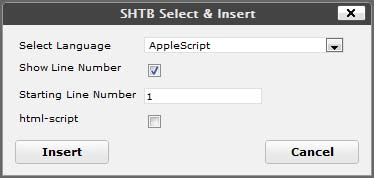
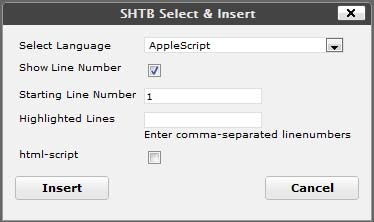
git-svn-id: https://plugins.svn.wordpress.org/syntaxhighlighter-tinymce-button/trunk@387108 b8457f37-d9ea-0310-8a92-e5e31aec5664

diff --git a/sh-tinymce-button-ins/tinymce.js b/sh-tinymce-button-ins/tinymce.js
@@ -26,6 +26,7 @@ function insertSHTBADVINSERTcode() {
 	var langname = langname_ddb.value;
 	var linenumbers = document.getElementById('shtb_adv_insert_linenumbers').checked;
 	var starting_linenumber = document.getElementById('shtb_adv_insert_starting_linenumber').value;
+	var highlight_lines = document.getElementById('shtb_adv_insert_highlighted_lines').value;
 	var html_script = document.getElementById('shtb_adv_insert_html_script').checked;
 	var inst = tinyMCE.getInstanceById('content');
 	var html = inst.selection.getContent();
@@ -42,6 +43,11 @@ function insertSHTBADVINSERTcode() {
 	if (starting_linenumber)
 		classAttribs = classAttribs + '; first-line: ' + starting_linenumber;
 	else
+		classAttribs = classAttribs + '; first-line: 1';
+
+	if (highlight_lines)
+		classAttribs = classAttribs + '; highlight: [' + highlight_lines + ']';
+	else
 		classAttribs = classAttribs;
 
 	if (html_script)
@@ -52,11 +58,15 @@ function insertSHTBADVINSERTcode() {
 	if(starting_linenumber.match(/[^0-9]+/)){
 			alert("Please input number to the 'Starting Line Number' column");
 			return;
+	} else if(highlight_lines != "" && highlight_lines.match(/[^,0-9]/)){
+			alert("Please input a linenumber or comma-separated linenumbers to the 'Highlighted Lines' column");
+			return;
 	} else if(e = ed.dom.getParent(ed.selection.getNode(), 'pre')){
 		ed.dom.setAttribs(e, {class : 'brush: '+classAttribs});
 	} else {
 	window.tinyMCE.execInstanceCommand('content', 'mceInsertContent', false, tagtext+classAttribs+'">'+html+'</pre>');
 	tinyMCEPopup.editor.execCommand('mceRepaint');
+//	tinyMCEPopup.editor.execCommand('mceInsertContent', false, tagtext+classAttribs+'">'+html+'</pre>');
 	}
 	tinyMCEPopup.close();
 	return;

diff --git a/sh-tinymce-button-box/tinymce.js b/sh-tinymce-button-box/tinymce.js
@@ -25,6 +25,7 @@ function insertSHTBADVCODEBOXcode() {
 	var langname = langname_ddb.value;
 	var linenumbers = document.getElementById('shtb_adv_codebox_linenumbers').checked;
 	var starting_linenumber = document.getElementById('shtb_adv_codebox_starting_linenumber').value;
+	var highlight_lines = document.getElementById('shtb_adv_codebox_highlighted_lines').value;
 	var html_script = document.getElementById('shtb_adv_codebox_html_script').checked;
 	var code = document.getElementById('shtb_adv_codebox_code').value.replace(/</g,'&lt;').replace(/\n/g,'<br>');
 
@@ -41,6 +42,11 @@ function insertSHTBADVCODEBOXcode() {
 	else
 		classAttribs = classAttribs;
 
+	if (highlight_lines)
+		classAttribs = classAttribs + '; highlight: [' + highlight_lines + ']';
+	else
+		classAttribs = classAttribs;
+
 	if (html_script)
 		classAttribs = classAttribs + '; html-script: true';
 	else
@@ -49,11 +55,13 @@ function insertSHTBADVCODEBOXcode() {
 	if(starting_linenumber.match(/[^0-9]+/)){
 			alert("Please input number to the 'Starting Line Number' column");
 			return;
+	} else if(highlight_lines != "" && highlight_lines.match(/[^,0-9]/)){
+			alert("Please input a linenumber or comma-separated linenumbers to the 'Highlighted Lines' column");
+			return;
 	} else if (code == '') {
 		alert("Your code is empty");
 	} else {
-	window.tinyMCE.execInstanceCommand('content', 'mceInsertContent', false, tagtext+classAttribs+'">'+code+'</pre>');
-	tinyMCEPopup.editor.execCommand('mceRepaint');
+	tinyMCEPopup.editor.execCommand('mceInsertContent', false, tagtext+classAttribs+'">'+code+'</pre>');
 	}
 	tinyMCEPopup.close();
 	return;

diff --git a/sh-tinymce-button-ins/re_write.js b/sh-tinymce-button-ins/re_write.js
@@ -17,6 +17,9 @@ var SHTBADVINSERTDialog = {
 			if(ed.dom.getAttrib(e, 'class').match(/first-line:/)){
 				f.shtb_adv_insert_starting_linenumber.value = str[2].replace(" first-line: ", "");
 			}
+			if(ed.dom.getAttrib(e, 'class').match(/highlight:/)){
+				f.shtb_adv_insert_highlighted_lines.value = str[3].replace(" highlight: [", "").replace("]", "");
+			}
 			if(ed.dom.getAttrib(e, 'class').match(/html-script: true/)){
 				f.shtb_adv_insert_html_script.checked = true;
 			}

diff --git a/sh-tinymce-button-box/editor_plugin.js b/sh-tinymce-button-box/editor_plugin.js
@@ -13,7 +13,7 @@
 				ed.windowManager.open({
 					file : url + '/window.php',
 					width : 360,
-					height : 390,
+					height : 430,
 					inline : 1
 				}, {
 					plugin_url : url // Plugin absolute URL
@@ -41,7 +41,7 @@
 					author 	  : 'redcocker',
 					authorurl : 'http://www.near-mint.com/blog',
 					infourl   : 'http://www.near-mint.com/blog',
-					version   : "0.3"
+					version   : "0.4"
 			};
 		}
 	});

diff --git a/sh-tinymce-button-ins/editor_plugin.js b/sh-tinymce-button-ins/editor_plugin.js
@@ -13,7 +13,7 @@
 				ed.windowManager.open({
 					file : url + '/window.php',
 					width : 360,
-					height : 145,
+					height : 190,
 					inline : 1
 				}, {
 					plugin_url : url // Plugin absolute URL
@@ -41,7 +41,7 @@
 					author 	  : 'redcocker',
 					authorurl : 'http://www.near-mint.com/blog',
 					infourl   : 'http://www.near-mint.com/blog',
-					version   : "0.3"
+					version   : "0.4"
 			};
 		}
 	});

diff --git a/sh-tinymce-button.php b/sh-tinymce-button.php
@@ -3,14 +3,14 @@
 Plugin Name: SyntaxHighlighter TinyMCE Button
 Plugin URI: http://www.near-mint.com/blog/software
 Description: 'SyntaxHighlighter TinyMCE Button' provides additional buttons for Visual Editor and these buttons will help to type or edit <code>&lt;pre&gt;</code> tag for Alex Gorbatchev's <a href='http://alexgorbatchev.com/SyntaxHighlighter/'>SyntaxHighlighter</a>. This plugin is based on '<a href='http://wordpress.org/extend/plugins/codecolorer-tinymce-button/'>CodeColorer TinyMCE Button</a>'.
-Version: 0.3
+Version: 0.4
 Author: Redcocker
 Author URI: http://www.near-mint.com/blog/
 Text Domain: shtb_adv_lang
 Domain Path: /locale/
 */
 /*
-Date of release: Ver. 0.3 2011/5/16
+Date of release: Ver. 0.4 2011/5/21
 License: GPL v2
 */
 load_plugin_textdomain('shtb_adv_lang', false, 'syntaxhighlighter-tinymce-button/locale');
@@ -26,8 +26,10 @@ function shtb_adv_add_admin_footer(){ //show plugin info in the footer
 function shtb_adv_register_menu_item() {
 	register_setting( 'shtb_adv-settings-group', 'shtb_adv_insert'); 
 	register_setting( 'shtb_adv-settings-group', 'shtb_adv_codebox'); 
+	register_setting( 'shtb_adv-settings-group', 'shtb_adv_using_syntaxhighlighter'); 
 	add_option('shtb_adv_insert', 1);
 	add_option('shtb_adv_codebox', 1);
+	add_option('shtb_adv_using_syntaxhighlighter', 'other');
 	add_options_page('SyntaxHighlighter TinyMCE Button Options', 'SH TinyMCE Button', 10, 'syntaxhighlighter-tinymce-button-options', 'shtb_adv_options_panel');
 }
 
@@ -71,6 +73,22 @@ function shtb_adv_options_panel(){
 	<form method="post" action="options.php">
 		<table style="margin-top:20px">
 		<?php settings_fields('shtb_adv-settings-group'); ?>
+			<tr valign="top">
+				<th scope="row" align="right"><?php _e('Using with', 'shtb_adv_lang') ?></th> 
+				<td style="padding-left:10px">
+					<?php if (get_option('shtb_adv_using_syntaxhighlighter') == "wp_syntaxhighlighter") {
+						$shtb_adv_wp_syntaxhighlighter_check = 'checked=\"checked\"';
+					} elseif (get_option('shtb_adv_using_syntaxhighlighter') == "syntax_highlighter_compress") {
+						$shtb_adv_syntax_highlighter_compress_check = 'checked=\"checked\"';
+					} elseif (get_option('shtb_adv_using_syntaxhighlighter') == "other") {
+						$shtb_adv_other_syntaxhighlighter_check = 'checked=\"checked\"';
+					} else {
+						update_option('shtb_adv_using_syntaxhighlighter', 'other');
+					} ?>
+					<input type="radio" name="shtb_adv_using_syntaxhighlighter" value="wp_syntaxhighlighter" <?php echo $shtb_adv_wp_syntaxhighlighter_check; ?>/><?php _e('<a href="http://wordpress.org/extend/plugins/wp-syntaxhighlighter/" style="text-decoration: none">WP SyntaxHighlighter</a>', 'shtb_adv_lang') ?> <input type="radio" name="shtb_adv_using_syntaxhighlighter" value="syntax_highlighter_compress" <?php echo $shtb_adv_syntax_highlighter_compress_check; ?>/><?php _e('<a href="http://wordpress.org/extend/plugins/syntax-highlighter-compress/" style="text-decoration: none">Syntax Highlighter Compress</a>', 'shtb_adv_lang') ?> <input type="radio" name="shtb_adv_using_syntaxhighlighter" value="other" <?php echo $shtb_adv_other_syntaxhighlighter_check; ?>/><?php _e('Other', 'shtb_adv_lang') ?>
+					<p><small><?php _e("Select your using plugin based on Alex Gorbatchev's <a href='http://alexgorbatchev.com/SyntaxHighlighter/' style='text-decoration: none'>SyntaxHighlighter</a>.<br />If your plugin is not in the options, Select 'Other'.<br />It is the same if you use <a href='http://wordpress.org/extend/plugins/auto-syntaxhighlighter/' style='text-decoration: none'>Auto SyntaxHighlighter</a>, <a href='http://wordpress.org/extend/plugins/syntax-highlighter-and-code-prettifier/' style='text-decoration: none'>Syntax Highlighter and Code Colorizer for WordPress</a> or <a href='http://wordpress.org/extend/plugins/syntax-highlighter-mt/' style='text-decoration: none'>Syntax Highlighter MT</a>.<br />If you don't know about your using plugin, Select 'Other'. When you select 'Other', this plugin will act innocuously.", "shtb_adv_lang") ?></small></p>
+				</td>
+			</tr>
 			<tr valign="top">
 				<th scope="row" align="right"><?php _e('Buttons', 'shtb_adv_lang') ?></th>
 				<td style="padding-left:10px">

diff --git a/sh-tinymce-button-ins/window.php b/sh-tinymce-button-ins/window.php
@@ -15,8 +15,8 @@ global $wpdb;
 <!-- 	<meta http-equiv="Content-Type" content="<?php// bloginfo('html_type'); ?>; charset=<?php //echo get_option('blog_charset'); ?>" /> -->
 	<script language="javascript" type="text/javascript" src="<?php echo get_option('siteurl') ?>/wp-includes/js/tinymce/tiny_mce_popup.js"></script>
 	<script language="javascript" type="text/javascript" src="<?php echo get_option('siteurl') ?>/wp-includes/js/tinymce/utils/form_utils.js"></script>
-	<script language="javascript" type="text/javascript" src="<?php echo get_option('siteurl') ?>/wp-content/plugins/syntaxhighlighter-tinymce-button/sh-tinymce-button-ins/tinymce.js?ver=0.3"></script>
-	<script language="javascript" type="text/javascript" src="<?php echo get_option('siteurl') ?>/wp-content/plugins/syntaxhighlighter-tinymce-button/sh-tinymce-button-ins/re_write.js?ver=0.3"></script>
+	<script language="javascript" type="text/javascript" src="<?php echo get_option('siteurl') ?>/wp-content/plugins/syntaxhighlighter-tinymce-button/sh-tinymce-button-ins/tinymce.js?ver=0.4"></script>
+	<script language="javascript" type="text/javascript" src="<?php echo get_option('siteurl') ?>/wp-content/plugins/syntaxhighlighter-tinymce-button/sh-tinymce-button-ins/re_write.js?ver=0.4"></script>
 	<base target="_self" />
 </head>
 		<body id="link" onload="tinyMCEPopup.executeOnLoad('init();');document.body.style.display='';" style="display: none">
@@ -65,11 +65,16 @@ global $wpdb;
           </tr>
           <tr>
 			<td nowrap="nowrap" valign="top"><label for="shtb_adv_insert_linenumbers"><?php _e("Show Line Number", 'shtb_adv_lang'); ?></label></td>
-            <td><label><input name="shtb_adv_insert_linenumbers" id='shtb_adv_insert_linenumbers' type="checkbox" checked="checked" /></label></td>
+            <td><?php $shc_opt = get_option('shc_opt'); if ((get_option('shtb_adv_using_syntaxhighlighter') == 'wp_syntaxhighlighter' && get_option('wp_sh_gutter') == 0) || (get_option('shtb_adv_using_syntaxhighlighter') == 'syntax_highlighter_compress' && $shc_opt[shc_gutter] == 0)) {$shtb_adv_insert_linenumbers_check = '';} else {$shtb_adv_insert_linenumbers_check = 'checked="checked" ';}?><label><input name="shtb_adv_insert_linenumbers" id='shtb_adv_insert_linenumbers' type="checkbox" <?php echo $shtb_adv_insert_linenumbers_check; ?>/></label></td>
           </tr>
           <tr>
 			<td nowrap="nowrap" valign="top"><label for="shtb_adv_insert_starting_linenumber"><?php _e("Starting Line Number", 'shtb_adv_lang'); ?></label></td>
-            <td><label><input name="shtb_adv_insert_starting_linenumber" id='shtb_adv_insert_starting_linenumber' type="text" value="1" /></label></td>
+            <td><?php if (get_option('shtb_adv_using_syntaxhighlighter') == 'wp_syntaxhighlighter') {$shtb_adv_insert_starting_linenumber_value = get_option('wp_sh_first_line');} else {$shtb_adv_insert_starting_linenumber_value = '1';}?><label><input name="shtb_adv_insert_starting_linenumber" id='shtb_adv_insert_starting_linenumber' type="text" value="<?php echo $shtb_adv_insert_starting_linenumber_value; ?>" /></label></td>
+          </tr>
+          <tr>
+			<td nowrap="nowrap" valign="top"><label for="shtb_adv_insert_highlighted_lines"><?php _e("Highlighted Lines", 'shtb_adv_lang'); ?></label></td>
+            <td style="width: 220px"><label><input name="shtb_adv_insert_highlighted_lines" id='shtb_adv_insert_highlighted_lines' type="text" /></label><br /><?php _e("Enter comma-separated linenumbers", 'shtb_adv_lang'); ?></td>
+
           </tr>
           <tr>
 			<td nowrap="nowrap" valign="top"><label for="shtb_adv_insert_html_script"><?php _e("html-script", 'shtb_adv_lang'); ?></label></td>

diff --git a/sh-tinymce-button-box/window.php b/sh-tinymce-button-box/window.php
@@ -15,7 +15,7 @@ global $wpdb;
 <!-- 	<meta http-equiv="Content-Type" content="<?php// bloginfo('html_type'); ?>; charset=<?php //echo get_option('blog_charset'); ?>" /> -->
 	<script language="javascript" type="text/javascript" src="<?php echo get_option('siteurl') ?>/wp-includes/js/tinymce/tiny_mce_popup.js"></script>
 	<script language="javascript" type="text/javascript" src="<?php echo get_option('siteurl') ?>/wp-includes/js/tinymce/utils/form_utils.js"></script>
-	<script language="javascript" type="text/javascript" src="<?php echo get_option('siteurl') ?>/wp-content/plugins/syntaxhighlighter-tinymce-button/sh-tinymce-button-box/tinymce.js?ver=0.3"></script>
+	<script language="javascript" type="text/javascript" src="<?php echo get_option('siteurl') ?>/wp-content/plugins/syntaxhighlighter-tinymce-button/sh-tinymce-button-box/tinymce.js?ver=0.4"></script>
 	<base target="_self" />
 </head>
 		<body id="link" onload="tinyMCEPopup.executeOnLoad('init();');document.body.style.display='';document.getElementById('shtb_adv_codebox_code').focus();" style="display: none">
@@ -64,11 +64,16 @@ global $wpdb;
           </tr>
           <tr>
 			<td nowrap="nowrap" valign="top"><label for="shtb_adv_codebox_linenumbers"><?php _e("Show Line Number", 'shtb_adv_lang'); ?></label></td>
-            <td><label><input name="shtb_adv_codebox_linenumbers" id='shtb_adv_codebox_linenumbers' type="checkbox" checked="checked" /></label></td>
+            <td><?php $shc_opt = get_option('shc_opt'); if ((get_option('shtb_adv_using_syntaxhighlighter') == 'wp_syntaxhighlighter' && get_option('wp_sh_gutter') == 0) || (get_option('shtb_adv_using_syntaxhighlighter') == 'syntax_highlighter_compress' && $shc_opt[shc_gutter] == 0)) {$shtb_adv_codebox_linenumbers_check = '';} else {$shtb_adv_codebox_linenumbers_check = 'checked="checked" ';}?><label><input name="shtb_adv_codebox_linenumbers" id='shtb_adv_codebox_linenumbers' type="checkbox" <?php echo $shtb_adv_codebox_linenumbers_check; ?>/></label></td>
           </tr>
           <tr>
 			<td nowrap="nowrap" valign="top"><label for="shtb_adv_codebox_starting_linenumber"><?php _e("Starting Line Number", 'shtb_adv_lang'); ?></label></td>
-            <td><label><input name="shtb_adv_codebox_starting_linenumber" id='shtb_adv_codebox_starting_linenumber' type="text" value="1" /></label></td>
+            <td><?php if (get_option('shtb_adv_using_syntaxhighlighter') == 'wp_syntaxhighlighter') {$shtb_adv_codebox_starting_linenumber_value = get_option('wp_sh_first_line');} else {$shtb_adv_codebox_starting_linenumber_value = '1';}?><label><input name="shtb_adv_codebox_starting_linenumber" id='shtb_adv_codebox_starting_linenumber' type="text" value="<?php echo $shtb_adv_codebox_starting_linenumber_value; ?>" /></label></td>
+          </tr>
+          <tr>
+			<td nowrap="nowrap" valign="top"><label for="shtb_adv_codebox_highlighted_lines"><?php _e("Highlighted Lines", 'shtb_adv_lang'); ?></label></td>
+            <td><label><input name="shtb_adv_codebox_highlighted_lines" id='shtb_adv_codebox_highlighted_lines' type="text" /></label><br /><?php _e("Enter comma-separated linenumbers", 'shtb_adv_lang'); ?></td>
+
           </tr>
           <tr>
 			<td nowrap="nowrap" valign="top"><label for="shtb_adv_codebox_html_script"><?php _e("html-script", 'shtb_adv_lang'); ?></label></td>

diff --git a/uninstall.php b/uninstall.php
@@ -2,5 +2,6 @@
 if (!defined('ABSPATH') && !defined('WP_UNINSTALL_PLUGIN')) {exit();}
 delete_option('shtb_adv_insert');
 delete_option('shtb_adv_codebox');
-delete_option('allow_tab');
+delete_option('shtb_adv_using_syntaxhighlighter');
+delete_option('allow_tab'); // option in older version.
 ?>

diff --git a/sh-tinymce-button-box/sh-tinymce-button-box.php b/sh-tinymce-button-box/sh-tinymce-button-box.php
@@ -1,7 +1,7 @@
 <?php
 /*
 SyntaxHighlighter TinyMCE Button Codebox
-Version: 0.3 2011/5/16 by Redcocker
+Version: 0.4 2011/5/21 by Redcocker
 License: GPL v2
 http://www.near-mint.com/blog/
 */

diff --git a/sh-tinymce-button-ins/sh-tinymce-button-ins.php b/sh-tinymce-button-ins/sh-tinymce-button-ins.php
@@ -1,7 +1,7 @@
 <?php
 /*
 SyntaxHighlighter TinyMCE Button Insert
-Version: 0.3 2011/5/16 by Redcocker
+Version: 0.4 2011/5/21 by Redcocker
 License: GPL v2
 http://www.near-mint.com/blog/
 */
